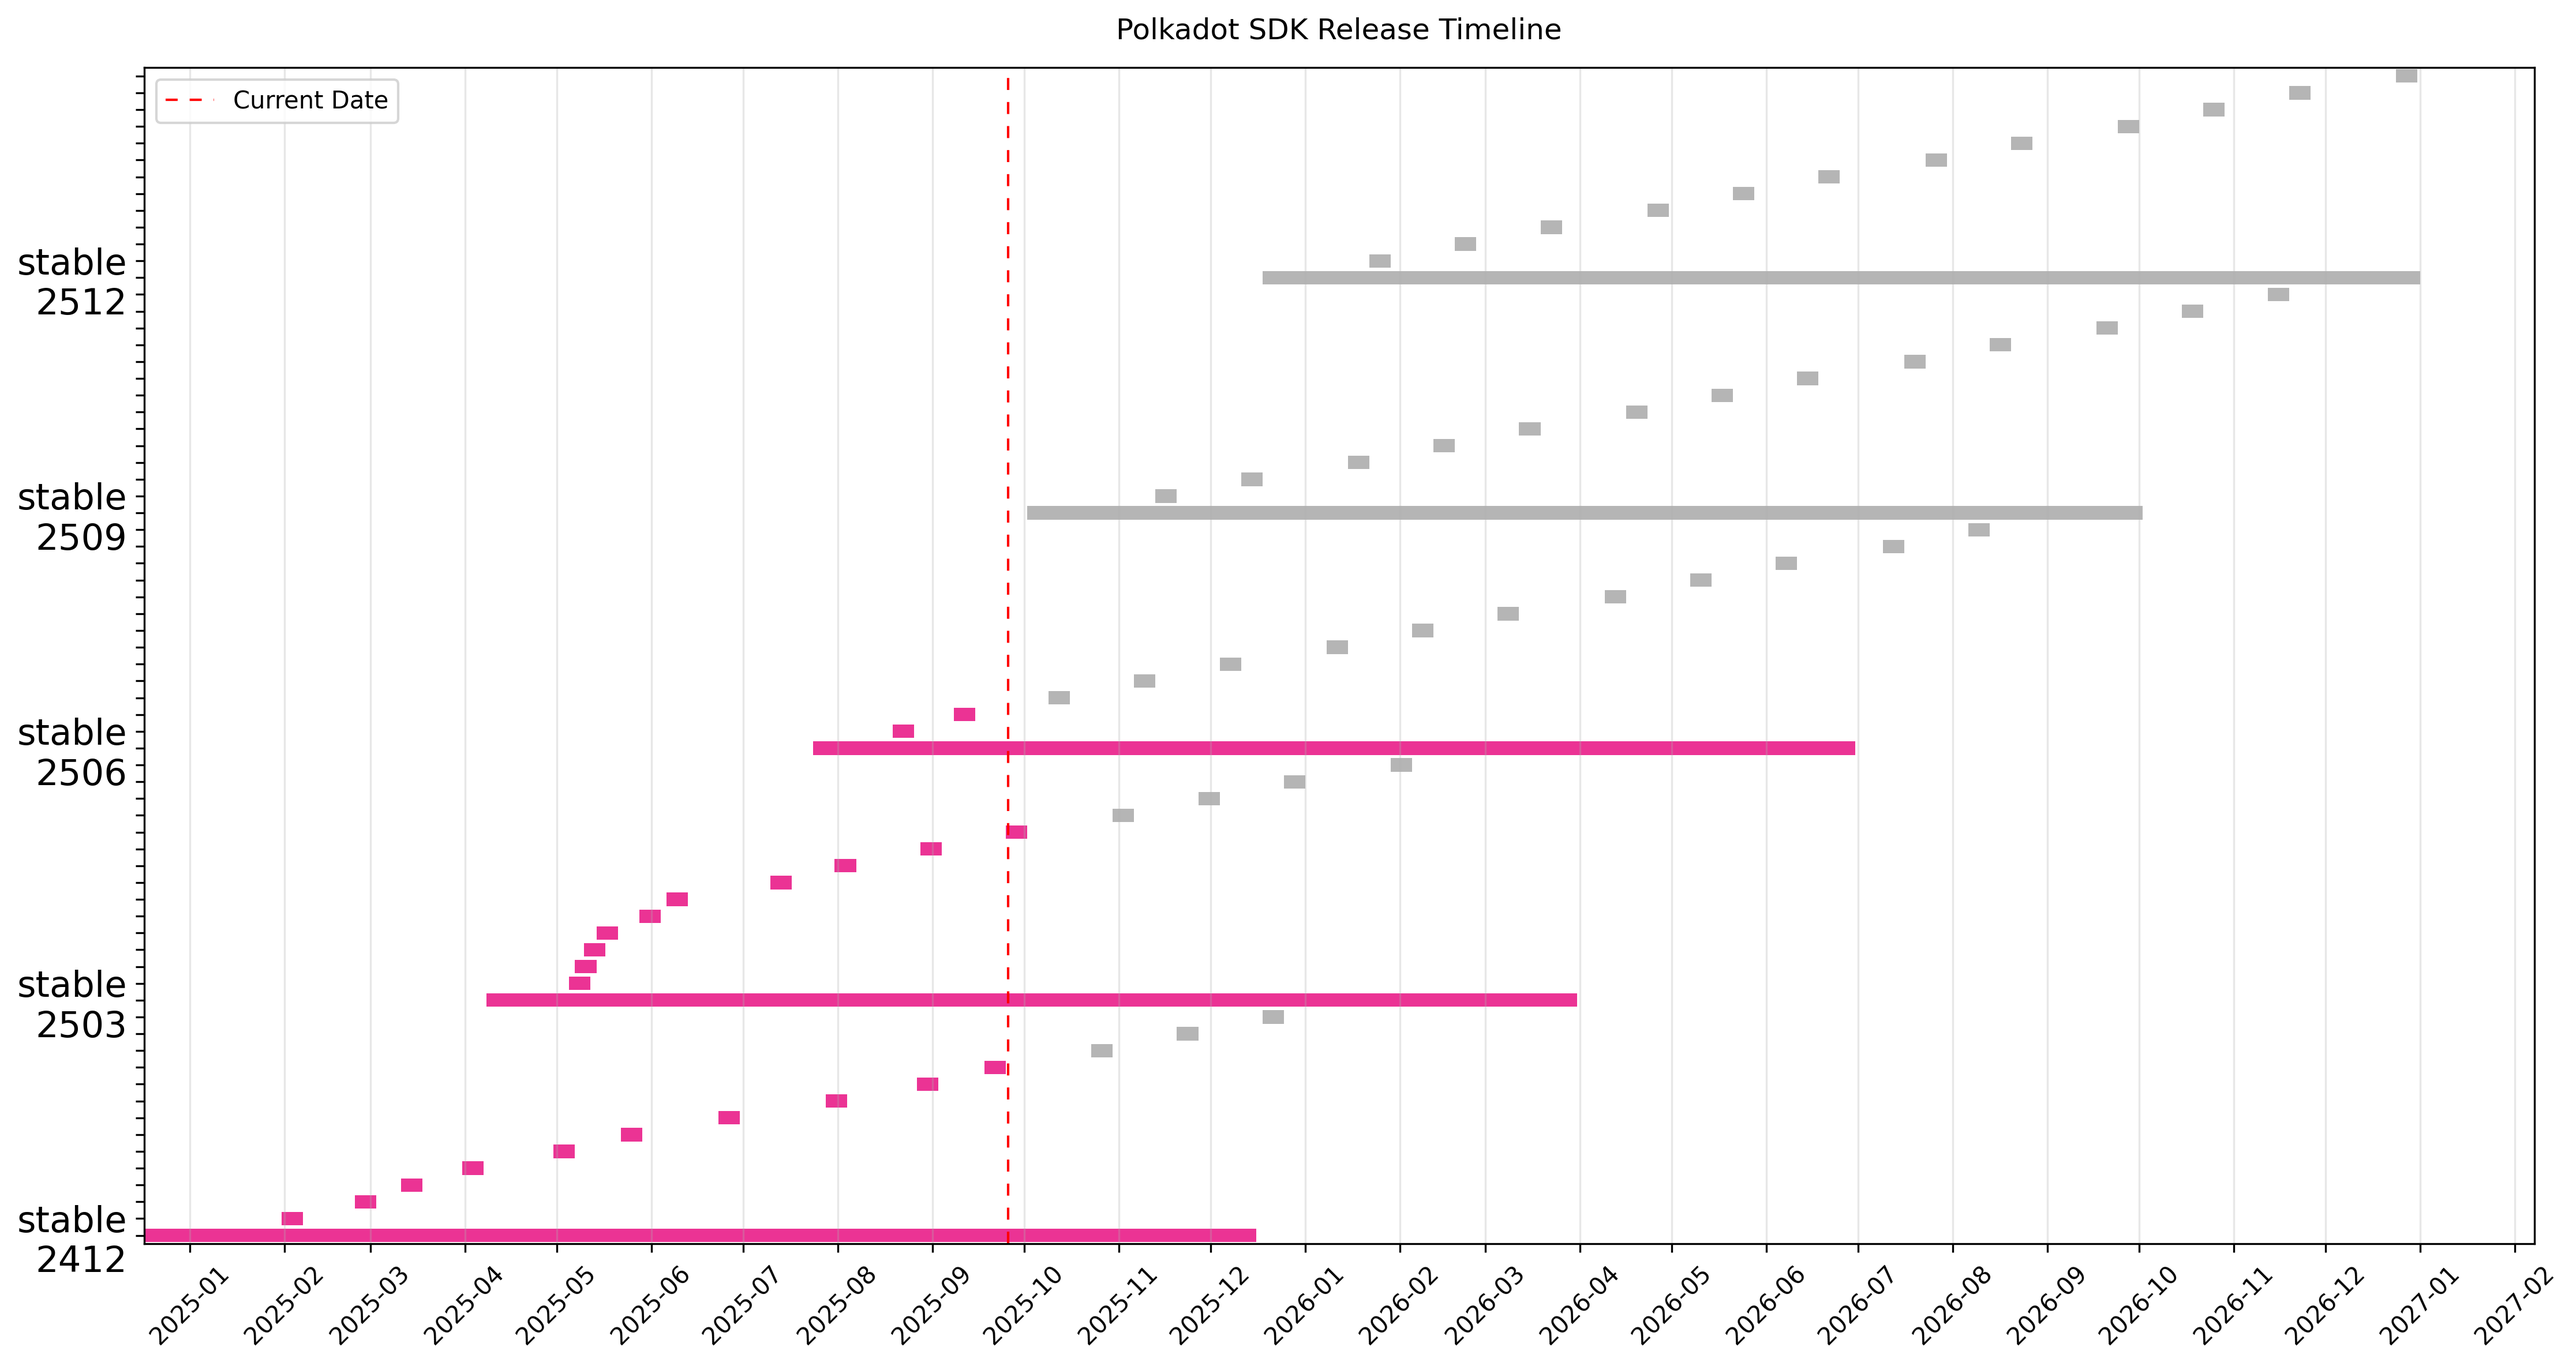
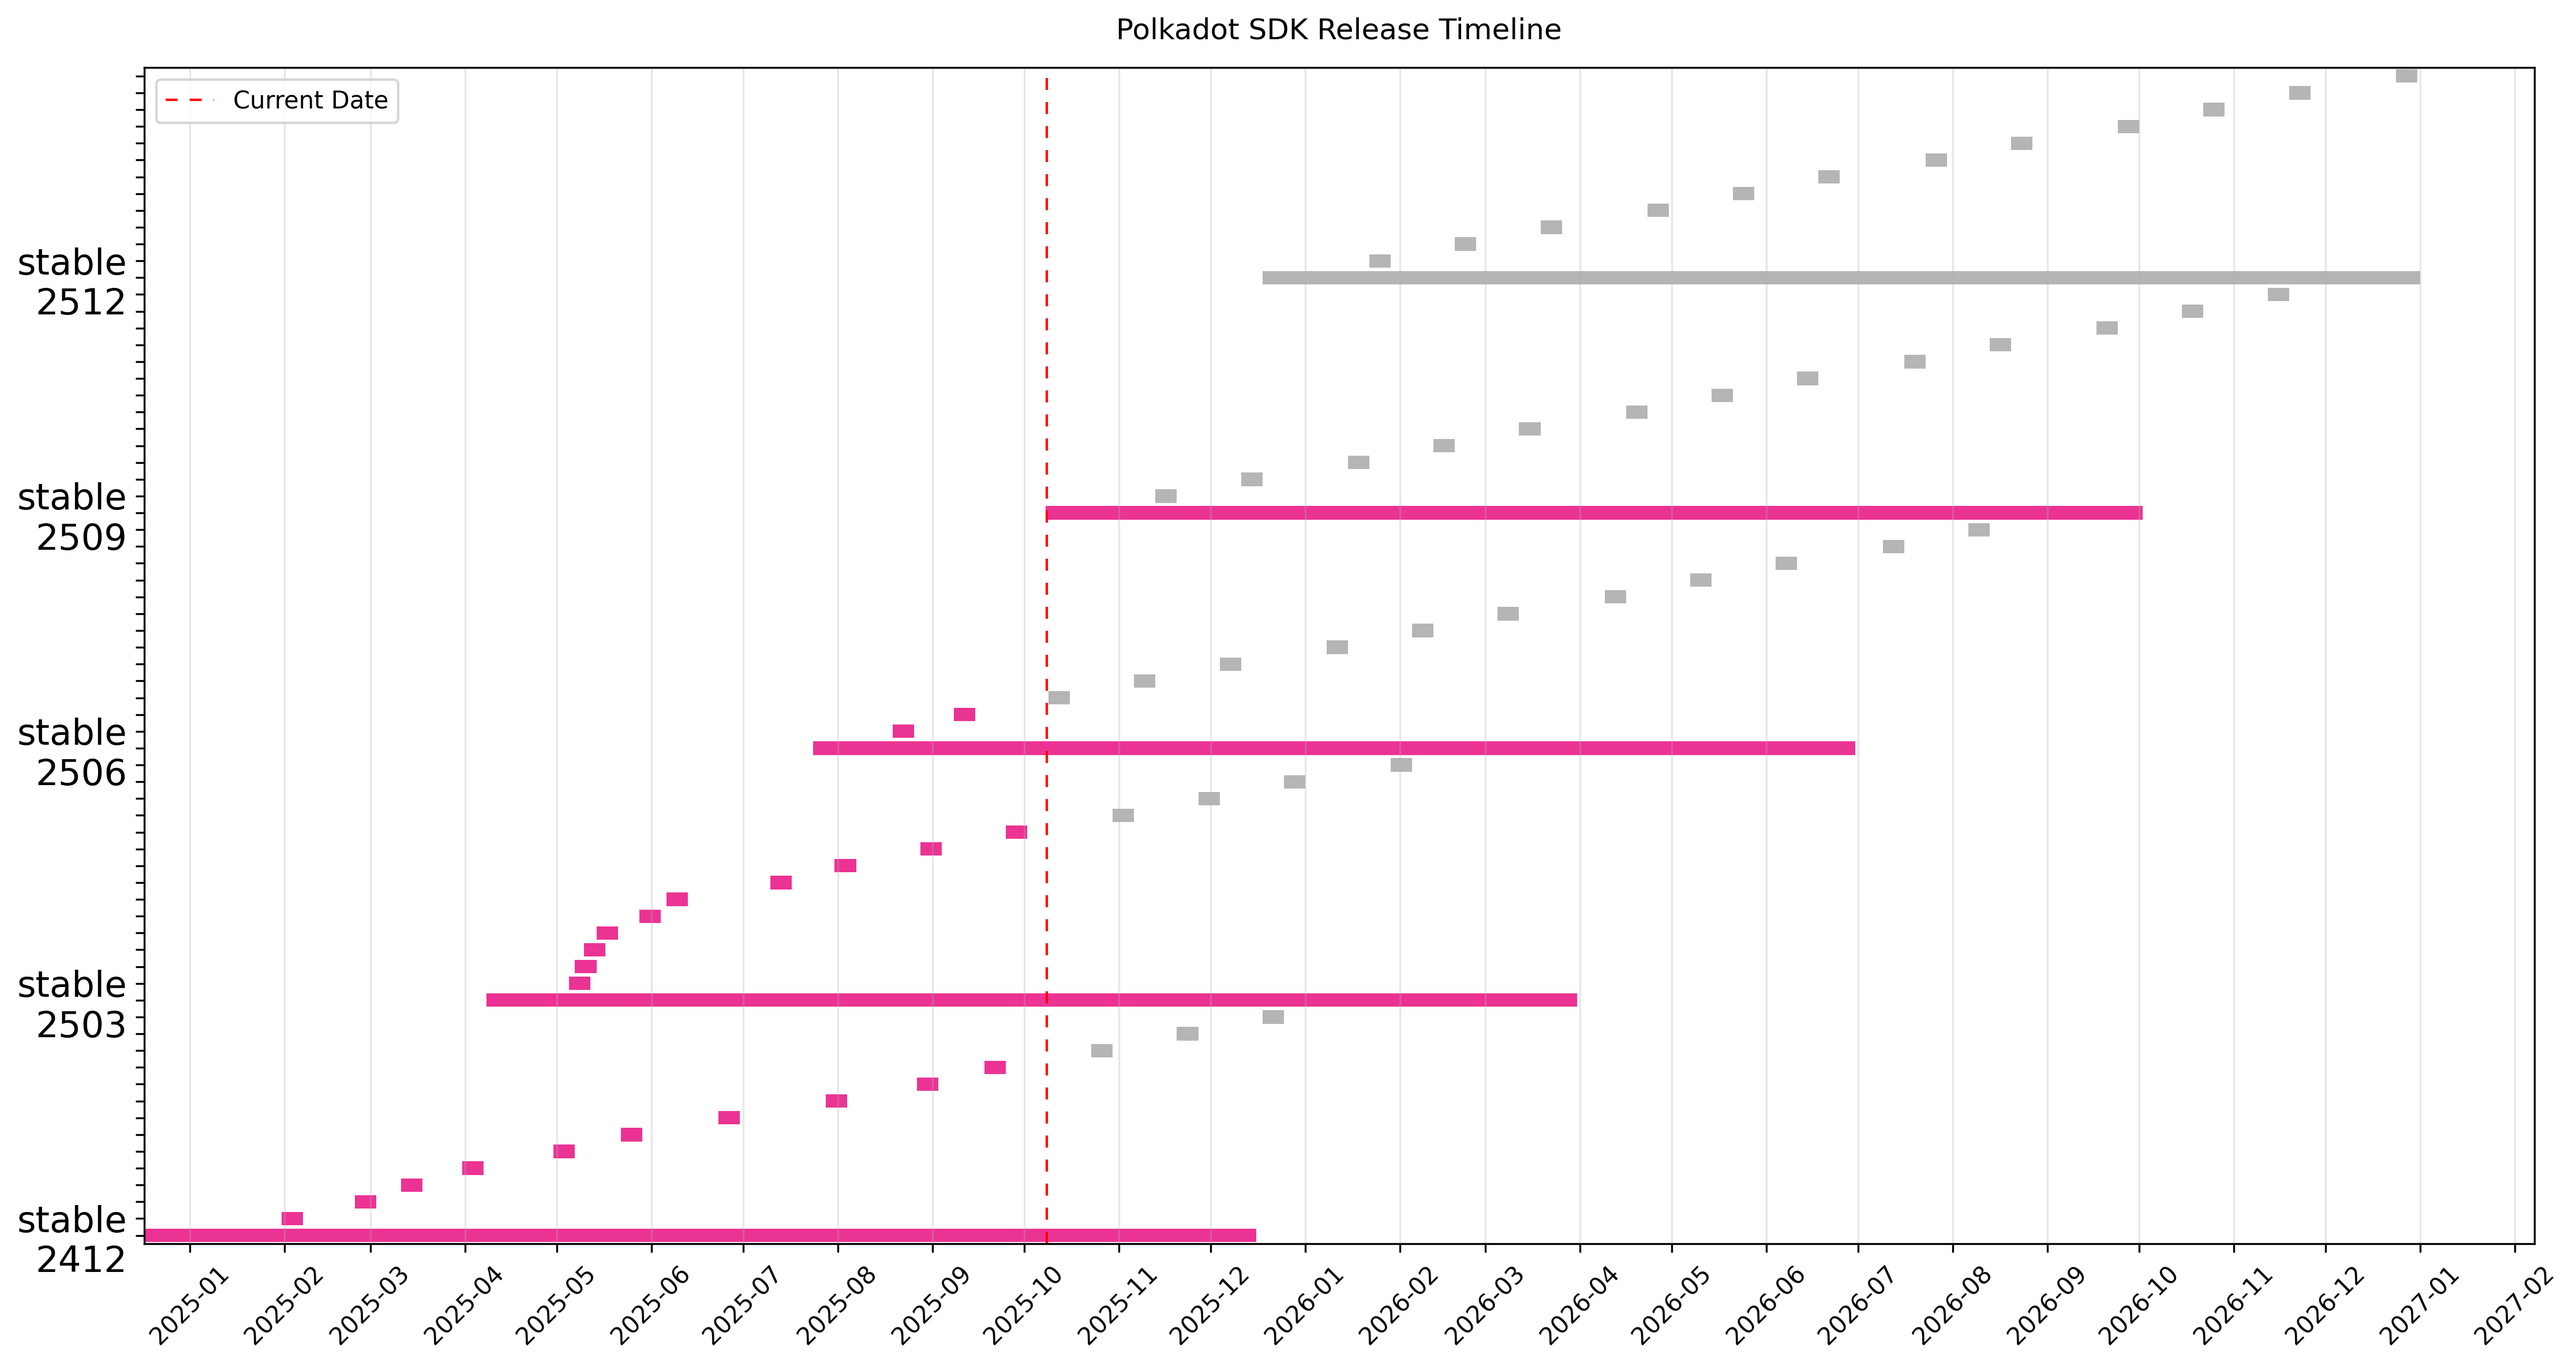
Release stable2509

Changed region(s): [[0.4048, 0.3438, 0.8407, 0.4062]]

diff --git a/CALENDAR.md b/CALENDAR.md
@@ -21,7 +21,7 @@ Full untruncated version index.
 | &nbsp;&nbsp;stable2512-10 | 2026-10-19 | 2026-10-22 |  | Planned |
 | &nbsp;&nbsp;stable2512-11 | 2026-11-16 | 2026-11-19 |  | Planned |
 | &nbsp;&nbsp;stable2512-12 | 2026-12-21 | 2026-12-24 |  | Planned |
-| **stable2509** | 2025-08-18 | 2025-10-02 | 2026-10-02 | Planned |
+| **stable2509** | 2025-08-18 | 2025-10-08 | 2026-10-02 | [Released](https://github.com/paritytech/polkadot-sdk/releases/tag/polkadot-stable2509) |
 | &nbsp;&nbsp;stable2509-1 | 2025-11-10 | 2025-11-13 |  | Planned |
 | &nbsp;&nbsp;stable2509-2 | 2025-12-08 | 2025-12-11 |  | Planned |
 | &nbsp;&nbsp;stable2509-3 | 2026-01-12 | 2026-01-15 |  | Planned |

diff --git a/README.md b/README.md
@@ -24,7 +24,7 @@ Planned and historic release dates:
 | &nbsp;&nbsp;stable2512-1 | 2026-01-19 | 2026-01-22 |  | Planned |
 | &nbsp;&nbsp;stable2512-2 | 2026-02-16 | 2026-02-19 |  | Planned |
 | &nbsp;&nbsp;[10 more planned](CALENDAR.md) |  |  | | |
-| **stable2509** | 2025-08-18 | 2025-10-02 | 2026-10-02 | Planned |
+| **stable2509** | 2025-08-18 | 2025-10-08 | 2026-10-02 | [Released](https://github.com/paritytech/polkadot-sdk/releases/tag/polkadot-stable2509) |
 | &nbsp;&nbsp;stable2509-1 | 2025-11-10 | 2025-11-13 |  | Planned |
 | &nbsp;&nbsp;stable2509-2 | 2025-12-08 | 2025-12-11 |  | Planned |
 | &nbsp;&nbsp;[11 more planned](CALENDAR.md) |  |  | | |
